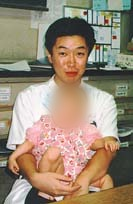
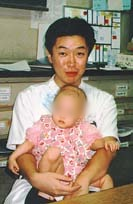
アルバム：大学卒業後の写真2枚のぼかしを目元だけに。アブレーションの仕事のページの冒頭右に写真

Changed region(s): [[0.3609, 0.3824, 0.6917, 0.6471]]

diff --git a/album/index.html b/album/index.html
@@ -136,8 +136,8 @@
 <div class="gallery gallery--small">
 <figure class="shot shot--full"><button class="shot-img" type="button" data-lightbox aria-label="写真を拡大"><img src="DOCTOR/12.JPG" width="340" height="243" alt="PL教校時代の写真です" loading="lazy" decoding="async"></button><figcaption>PL教校時代の写真です。のどかな夕暮れ、桜つみをした時の写真で、みんな、いい顔してます。とても気に入ってる写真です。</figcaption></figure>
 <figure class="shot shot--full"><button class="shot-img" type="button" data-lightbox aria-label="写真を拡大"><img src="DOCTOR/14.JPG" width="227" height="147" alt="恩師・山口先生と" loading="lazy" decoding="async"></button><figcaption>恩師・山口先生と。いろいろ教えていただき、また、いっしょにばかなこともたくさんしました。</figcaption></figure>
-<figure class="shot shot--full"><button class="shot-img" type="button" data-lightbox aria-label="写真を拡大"><img src="DOCTOR/15.JPG?v=2" width="227" height="151" alt="医者になって数カ月の頃です" loading="lazy" decoding="async"></button><figcaption>医者になって数カ月の頃です。今も年数回手紙をくれる患者さんです。</figcaption></figure>
-<figure class="shot shot--full"><button class="shot-img" type="button" data-lightbox aria-label="写真を拡大"><img src="DOCTOR/16.JPG?v=2" width="133" height="204" alt="これも同じく新米ぺーぺーの頃の写真" loading="lazy" decoding="async"></button><figcaption>これも同じく新米ぺーぺーの頃の写真。病棟は、旧市大病院、小児科病棟です。</figcaption></figure>
+<figure class="shot shot--full"><button class="shot-img" type="button" data-lightbox aria-label="写真を拡大"><img src="DOCTOR/15.JPG?v=3" width="227" height="151" alt="医者になって数カ月の頃です" loading="lazy" decoding="async"></button><figcaption>医者になって数カ月の頃です。今も年数回手紙をくれる患者さんです。</figcaption></figure>
+<figure class="shot shot--full"><button class="shot-img" type="button" data-lightbox aria-label="写真を拡大"><img src="DOCTOR/16.JPG?v=3" width="133" height="204" alt="これも同じく新米ぺーぺーの頃の写真" loading="lazy" decoding="async"></button><figcaption>これも同じく新米ぺーぺーの頃の写真。病棟は、旧市大病院、小児科病棟です。</figcaption></figure>
 <figure class="shot shot--full"><button class="shot-img" type="button" data-lightbox aria-label="写真を拡大"><img src="DOCTOR/17.JPG" width="175" height="125" alt="今は総合医療センターにおられる山田先生と" loading="lazy" decoding="async"></button><figcaption>今は総合医療センターにおられる山田先生と。山田先生には西宮市立中央病院でお世話になりました。</figcaption></figure>
 <figure class="shot shot--full shot--combo"><div class="combo-wrap"><button class="shot-img" type="button" data-lightbox aria-label="写真を拡大"><img src="DOCTOR/19.JPG" width="227" height="171" alt="大うけでした" loading="lazy" decoding="async"></button><button class="combo-inset" type="button" data-lightbox aria-label="女装した写真を拡大"><img src="DOCTOR/18.JPG" width="174" height="154" alt="西宮の忘年会で女装させられた時の写真" loading="lazy" decoding="async"></button></div><figcaption>こんなことをさせられることもあります。これは西宮の忘年会で、むりやり女装させられた時の写真です。おぞましい。大うけでした。</figcaption></figure>
 </div>

diff --git a/ablation.html b/ablation.html
@@ -11,7 +11,7 @@
   <meta name="theme-color" content="#8bf5c5">
   <link rel="stylesheet" href="assets/tsugu.css?v=20260926j">
   <script>document.documentElement.classList.add('nx-js');</script>
-  <link rel="stylesheet" href="assets/ca.css?v=20260926e">
+  <link rel="stylesheet" href="assets/ca.css?v=20260926f">
   <!-- Google tag (gtag.js) -->
   <script async src="https://www.googletagmanager.com/gtag/js?id=G-R0BG9XQGE4"></script>
   <script>
@@ -39,13 +39,16 @@
     </header>
 
     <main>
-      <div class="page-hero ca-hero">
+      <div class="page-hero ca-hero ca-hero--photo">
+        <figure class="ca-hero-photo"><button class="shot-img" type="button" data-lightbox aria-label="写真を拡大"><img src="assets/media/ablation-room.webp?v=2" width="1159" height="768" alt="カテーテル室でアブレーション治療をしている様子"></button><figcaption hidden>カテーテル室でのアブレーション治療</figcaption></figure>
+        <div class="ca-hero-text">
         <p class="eyebrow">Catheter ablation · 2006–2026</p>
         <h1><span class="nw">アブレーションの仕事</span><span class="h1-sub">全症例のデータ（2006–2026年）</span></h1>
         <p class="sec-lede">2006年に大阪市立総合医療センター 小児不整脈科に赴任してから2026年9月までに、当科で行った<b>カテーテルアブレーション1,720件（患者さん1,488人）</b>のデータです。治療したときの年齢と体重、成功率と再発率、不整脈ごとの成績をまとめました。WPW・PVC/NSVT・AVNRTは、それぞれのページで詳しく紹介しています。</p>
         <nav class="jump" aria-label="このページの目次">
           <a href="#summary">概要</a><a href="#outcome">成功率と再発率</a><a href="#age">年齢</a><a href="#weight">体重</a><a href="#period">期間ごとの成績</a><a href="#kinds">不整脈ごとの成績</a><a href="#detail">詳しい成績</a>
         </nav>
+        </div>
       </div>
 
       <div class="doc">
@@ -342,7 +345,12 @@
     </footer>
   </div>
 
-  <script src="assets/ca.js?v=20260926e" defer></script>
-  <script src="assets/tsugu.js?v=20260926g" defer></script>
+  <dialog class="nx-lightbox" id="nx-lightbox" aria-label="写真の拡大表示">
+    <button type="button" class="lb-close" data-lb-close aria-label="閉じる">×</button>
+    <figure><img alt=""><figcaption></figcaption></figure>
+  </dialog>
+
+  <script src="assets/ca.js?v=20260926f" defer></script>
+  <script src="assets/tsugu.js?v=20260926j" defer></script>
 </body>
 </html>

diff --git a/assets/ca.css b/assets/ca.css
@@ -182,3 +182,16 @@
   .nx .localnav .logo img { height: 26px !important; }
   .nx .localnav nav a { padding: 5px 6px; font-size: .76rem; }
 }
+
+/* 全体のページの冒頭：文章の右に写真 */
+.nx .ca-hero--photo { display: grid; grid-template-columns: minmax(0, 1.25fr) minmax(0, .75fr); align-items: center; gap: clamp(20px, 4vw, 48px); max-width: 1120px; text-align: left; }
+.nx .ca-hero--photo .ca-hero-text { grid-column: 1; grid-row: 1; }
+.nx .ca-hero--photo .sec-lede { margin-left: 0; }
+.nx .ca-hero--photo .jump { justify-content: flex-start; }
+.nx .ca-hero-photo { grid-column: 2; grid-row: 1; margin: 0; }
+.nx .ca-hero-photo .shot-img { display: block; width: 100%; padding: 0; border: 0; background: none; cursor: zoom-in; }
+.nx .ca-hero-photo img { display: block; width: 100% !important; height: auto; border: 6px solid #fff; border-radius: 20px; box-shadow: 0 20px 44px -22px rgba(8, 58, 38, .55); }
+@media (max-width: 860px) {
+  .nx .ca-hero--photo { grid-template-columns: 1fr; }
+  .nx .ca-hero-photo { grid-column: 1; grid-row: 2; max-width: 520px; }
+}

diff --git a/avnrt_results.html b/avnrt_results.html
@@ -11,7 +11,7 @@
   <meta name="theme-color" content="#8bf5c5">
   <link rel="stylesheet" href="assets/tsugu.css?v=20260926j">
   <script>document.documentElement.classList.add('nx-js');</script>
-  <link rel="stylesheet" href="assets/ca.css?v=20260926e">
+  <link rel="stylesheet" href="assets/ca.css?v=20260926f">
   <!-- Google tag (gtag.js) -->
   <script async src="https://www.googletagmanager.com/gtag/js?id=G-R0BG9XQGE4"></script>
   <script>

diff --git a/pvc_results.html b/pvc_results.html
@@ -11,7 +11,7 @@
   <meta name="theme-color" content="#8bf5c5">
   <link rel="stylesheet" href="assets/tsugu.css?v=20260926j">
   <script>document.documentElement.classList.add('nx-js');</script>
-  <link rel="stylesheet" href="assets/ca.css?v=20260926e">
+  <link rel="stylesheet" href="assets/ca.css?v=20260926f">
   <!-- Google tag (gtag.js) -->
   <script async src="https://www.googletagmanager.com/gtag/js?id=G-R0BG9XQGE4"></script>
   <script>

diff --git a/wpw_results.html b/wpw_results.html
@@ -11,7 +11,7 @@
   <meta name="theme-color" content="#8bf5c5">
   <link rel="stylesheet" href="assets/tsugu.css?v=20260926j">
   <script>document.documentElement.classList.add('nx-js');</script>
-  <link rel="stylesheet" href="assets/ca.css?v=20260926e">
+  <link rel="stylesheet" href="assets/ca.css?v=20260926f">
   <!-- Google tag (gtag.js) -->
   <script async src="https://www.googletagmanager.com/gtag/js?id=G-R0BG9XQGE4"></script>
   <script>
